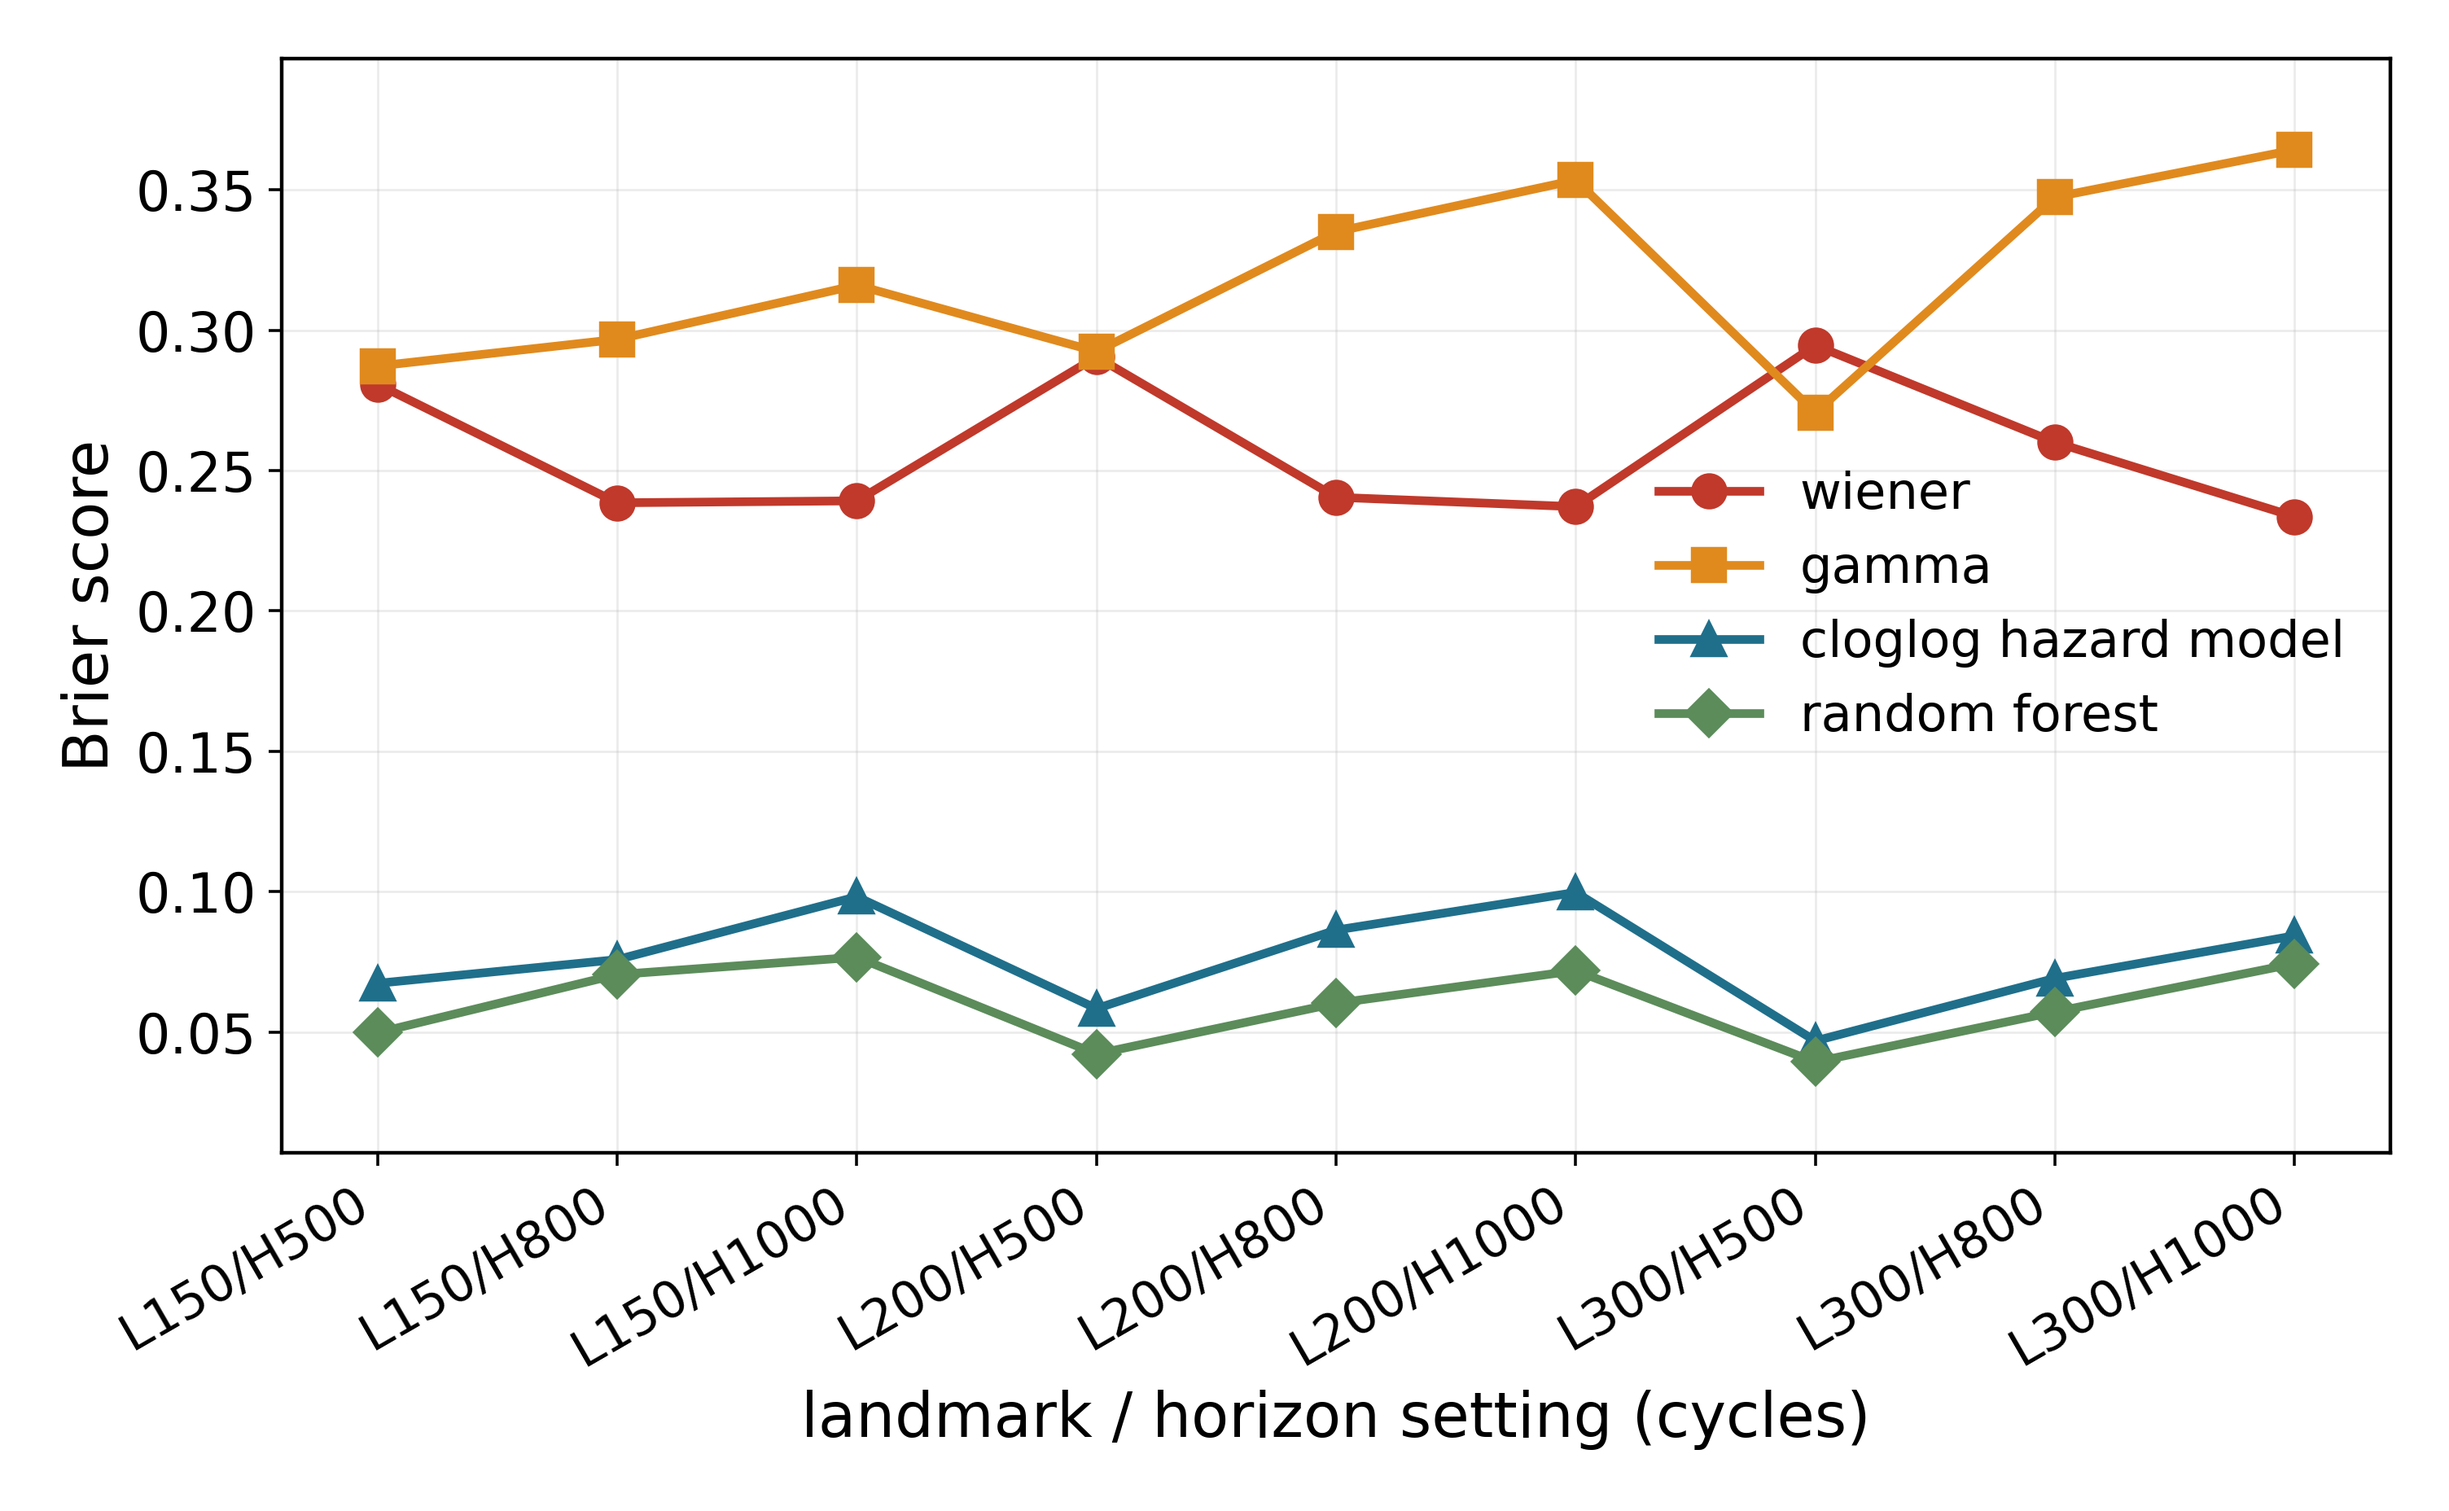
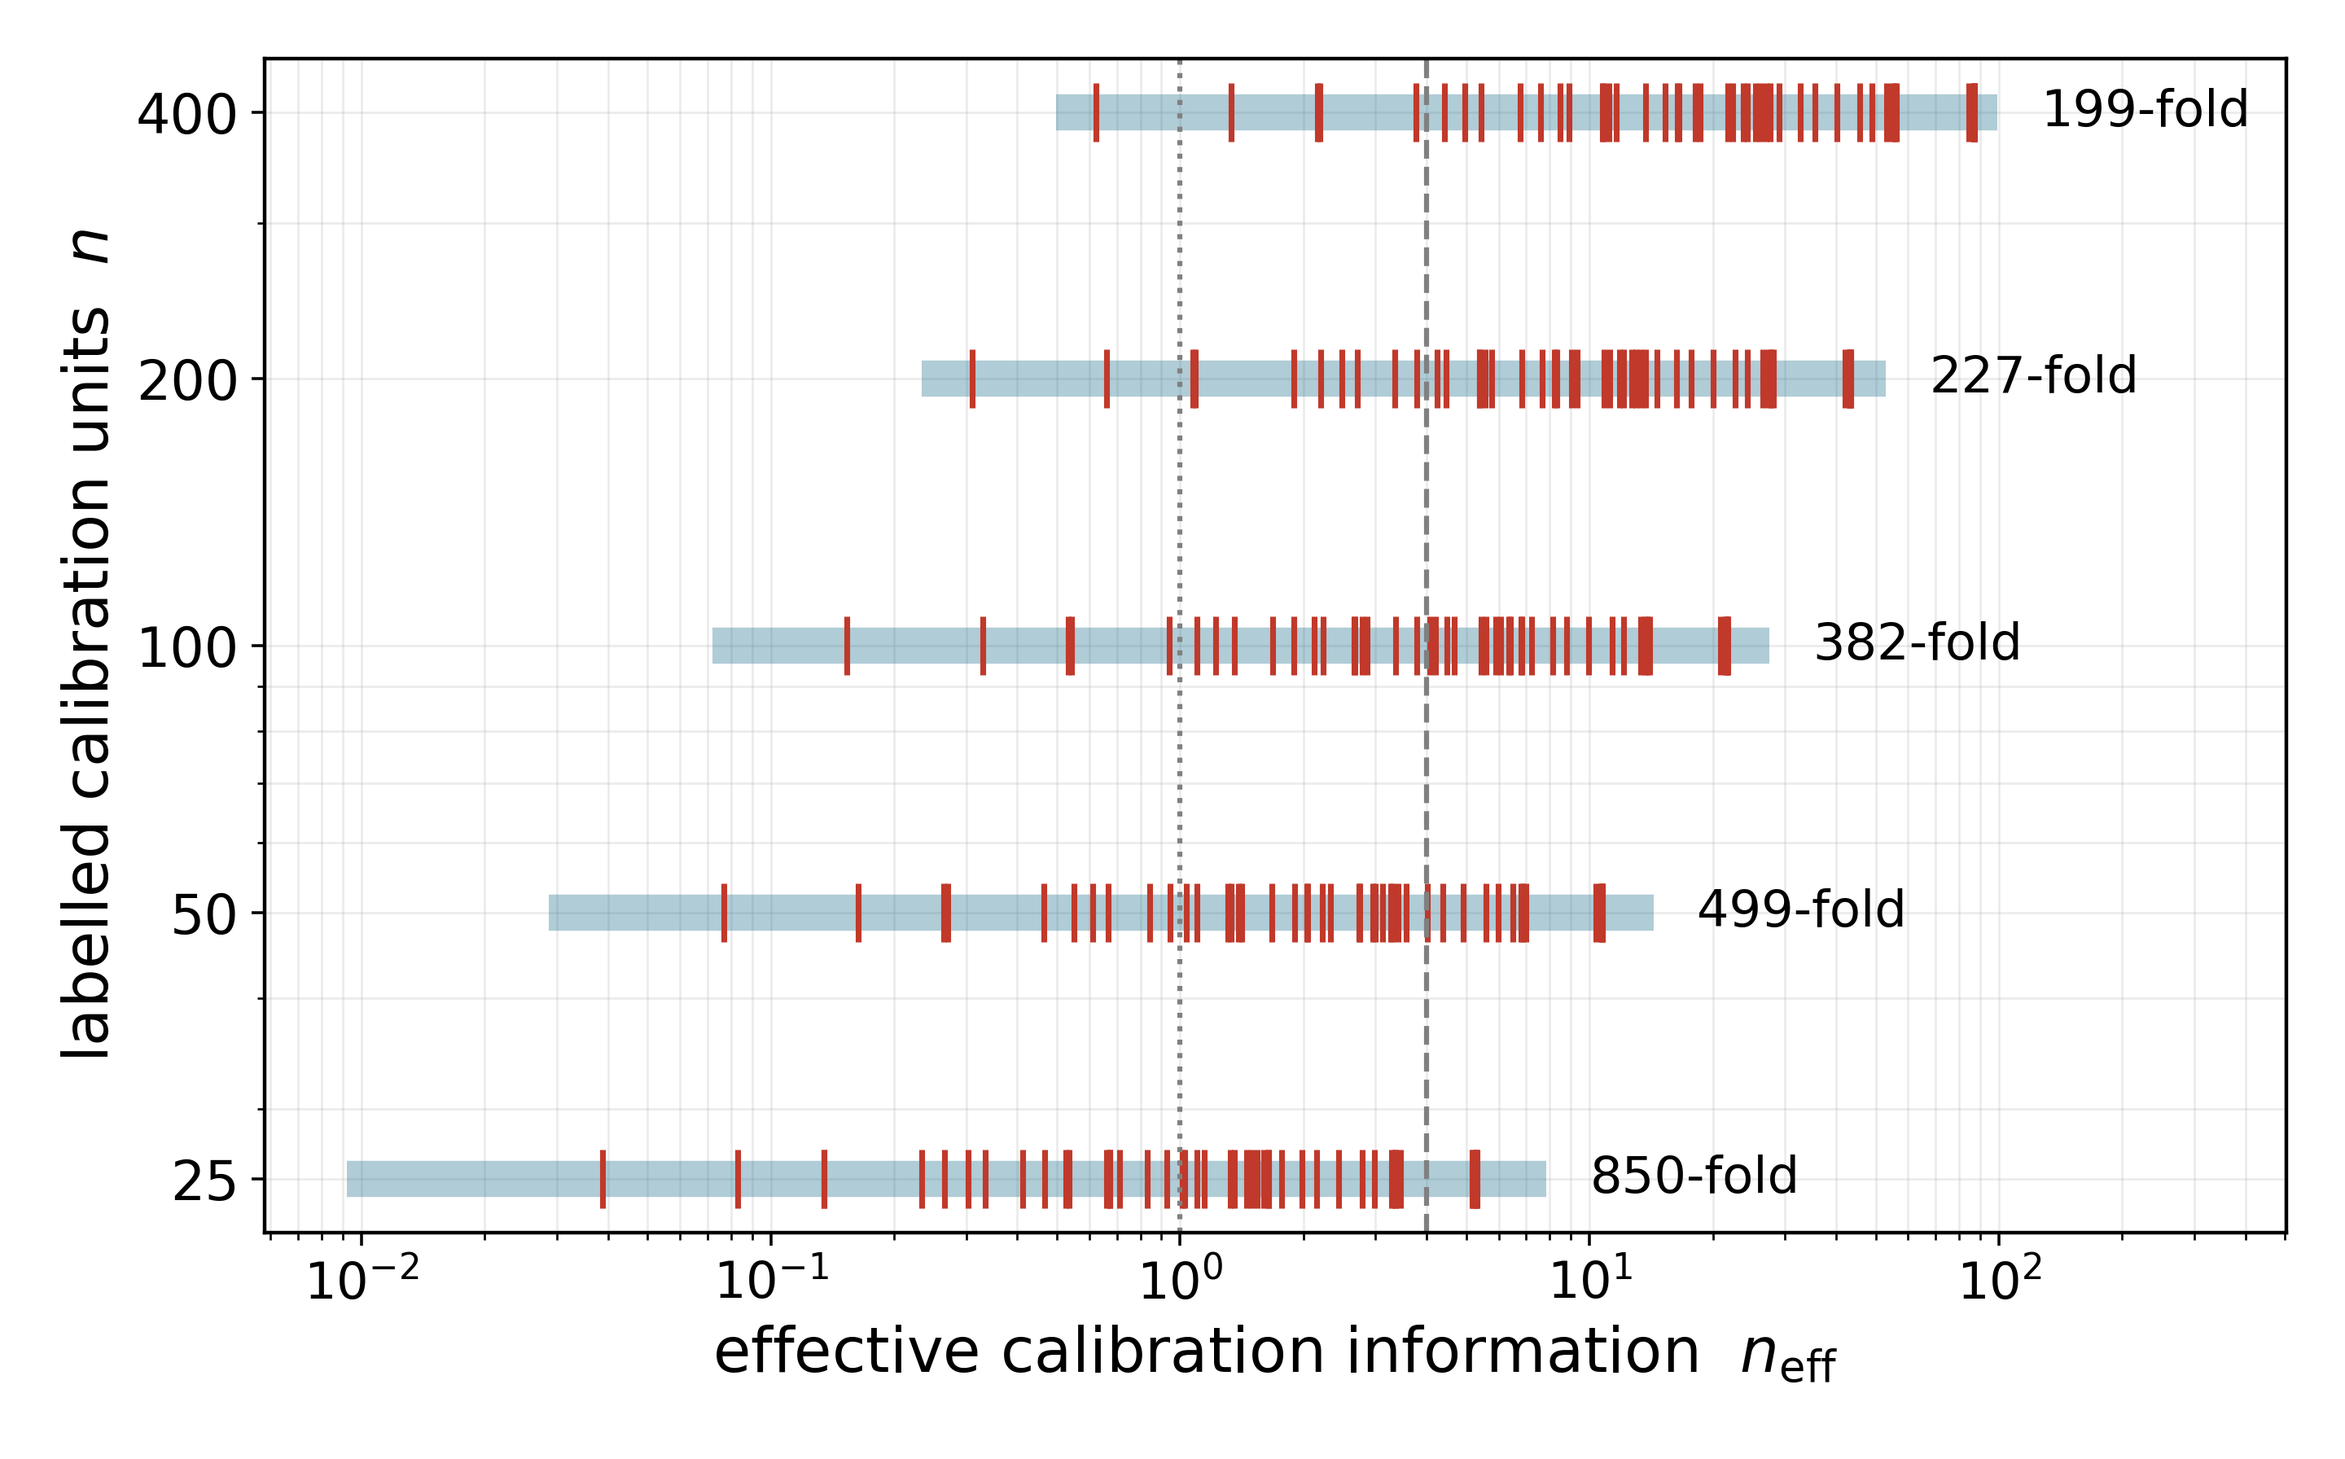
Add Figure 2: link bias and coverage after temporal grouping
Two panels over interval width 0.5, 2, 5 -- mean coefficient bias against a
zero reference, and empirical 95% coverage against the nominal 0.95 -- for the
complementary log-log, logit and probit links.

Values are read from the project's archived Study-A link table rather than
retyped, so the figure is traceable: results/link_simulation_bias_coverage.csv
(18 design cells averaged per point, 1,000 replicates each).

Main-text figures renumbered: 1 schematic, 2 link bias and coverage,
3 n_eff spread, 4 first-passage comparison. The crossover and transport-n_eff
figures are still generated but are no longer main-text figures.

diff --git a/scripts/t_link_figure.py b/scripts/t_link_figure.py
@@ -1,0 +1,90 @@
+"""Figure 2 -- link bias and empirical coverage after temporal grouping.
+
+Two panels over interval width 0.5, 2, 5:
+  (a) mean coefficient bias, reference line at zero
+  (b) empirical 95% coverage, reference line at the nominal 0.95
+
+Values are read from results/link_simulation_bias_coverage.csv, which is the
+project's own archived Study-A link table (table01_link_grouping_simulation),
+18 design cells averaged per point at 1,000 replicates each -- they are not
+retyped into this script.
+"""
+from __future__ import annotations
+
+import os
+from pathlib import Path
+
+for _v in ("OPENBLAS_NUM_THREADS", "OMP_NUM_THREADS", "MKL_NUM_THREADS"):
+    os.environ[_v] = "1"
+
+import matplotlib
+
+matplotlib.use("Agg")
+import matplotlib.pyplot as plt  # noqa: E402
+import pandas as pd  # noqa: E402
+
+plt.rcParams.update({
+    "font.size": 15, "axes.labelsize": 17, "xtick.labelsize": 15,
+    "ytick.labelsize": 15, "legend.fontsize": 15, "axes.linewidth": 1.0,
+})
+
+QREI = Path(__file__).resolve().parent.parent
+d = pd.read_csv(QREI / "results" / "link_simulation_bias_coverage.csv")
+
+LINKS = [("cloglog", "complementary log-log", "#1f6f8b", "o"),
+         ("logit", "logit", "#c0392b", "s"),
+         ("probit", "probit", "#e08a1e", "D")]
+widths = sorted(d.width.unique())
+xs = range(len(widths))
+
+fig, (ax1, ax2) = plt.subplots(1, 2, figsize=(12.0, 5.2))
+
+# ---- (a) bias
+ax1.axhline(0.0, color="0.35", ls="--", lw=1.4, zorder=1)
+for key, lab, col, mk in LINKS:
+    g = d[d.link == key].set_index("width").loc[widths]
+    ax1.plot(xs, g.bias, marker=mk, color=col, lw=2.6, ms=10, label=lab, zorder=3)
+ax1.set_xticks(list(xs))
+ax1.set_xticklabels([("%g" % w) for w in widths])
+ax1.set_xlabel("interval width")
+ax1.set_ylabel("mean coefficient bias")
+ax1.set_xlim(-0.28, len(widths) - 0.72)
+ax1.set_ylim(-0.36, 0.20)
+ax1.text(len(widths) - 0.78, 0.012, "unbiased", fontsize=13.5,
+         color="0.35", ha="right", va="bottom",
+         bbox=dict(facecolor="white", edgecolor="none", alpha=0.85, pad=1.5))
+ax1.grid(alpha=0.22, lw=0.6)
+ax1.set_title("(a)  coefficient bias", fontsize=16, loc="left", pad=10)
+
+# ---- (b) coverage
+ax2.axhline(0.95, color="0.35", ls="--", lw=1.4, zorder=1)
+for key, lab, col, mk in LINKS:
+    g = d[d.link == key].set_index("width").loc[widths]
+    ax2.plot(xs, g.coverage, marker=mk, color=col, lw=2.6, ms=10, label=lab,
+             zorder=3)
+ax2.set_xticks(list(xs))
+ax2.set_xticklabels([("%g" % w) for w in widths])
+ax2.set_xlabel("interval width")
+ax2.set_ylabel("empirical 95% coverage")
+ax2.set_xlim(-0.28, len(widths) - 0.72)
+ax2.set_ylim(-0.05, 1.05)
+ax2.text(len(widths) - 0.78, 0.865, "nominal 0.95", fontsize=13.5,
+         color="0.35", ha="right", va="top",
+         bbox=dict(facecolor="white", edgecolor="none", alpha=0.85, pad=1.5))
+ax2.grid(alpha=0.22, lw=0.6)
+ax2.set_title("(b)  empirical coverage", fontsize=16, loc="left", pad=10)
+
+handles, labels = ax1.get_legend_handles_labels()
+fig.legend(handles, labels, frameon=False, ncol=3, loc="lower center",
+           bbox_to_anchor=(0.5, -0.01), columnspacing=2.4, handletextpad=0.5)
+
+fig.tight_layout(rect=(0, 0.085, 1, 1))
+out = QREI / "figs" / "fig_link_grouping.png"
+fig.savefig(out, dpi=320)
+plt.close(fig)
+print("wrote %s" % out)
+for key, lab, _, _ in LINKS:
+    g = d[d.link == key].set_index("width").loc[widths]
+    print("  %-8s bias %s | coverage %s"
+          % (key, " ".join("%+.4f" % v for v in g.bias),
+             " ".join("%.4f" % v for v in g.coverage)))

diff --git a/README.md b/README.md
@@ -21,17 +21,23 @@ numbers cannot drift apart. **Edit the generator, never the markdown.**
 | `RESULTS.md` | the generated report |
 | `requirements.txt` | exact package versions used |
 
-Figure numbering:
+Figure numbering, main text:
 
-| Manuscript | File in `figs/` | Shows |
+| Figure | File in `figs/` | Shows |
 |---|---|---|
-| Figure 1 | *(not generated here)* | coefficient bias and coverage by link |
-| Figure 2 | `fig_information_spread.png` | `n_eff` against nominal labelled size, recalibration simulation |
-| Figure 3 | `fig_firstpassage.png` | Brier by landmark-horizon setting, first-passage comparison |
-| Figure 4 | `fig_transport_neff.png` | `n_eff` over the transport combinations |
+| Figure 1 | *(schematic, not generated here)* | grouped event-time representation and landmark-conditional fixed-horizon prediction |
+| Figure 2 | `fig_link_grouping.png` | coefficient bias and empirical 95% coverage by link, against interval width |
+| Figure 3 | `fig_information_spread.png` | `n_eff` spans two orders of magnitude at every fixed labelled size |
+| Figure 4 | `fig_firstpassage.png` | Brier by landmark-horizon setting, first-passage against hazard model |
 
-`figs/fig_crossover.png` is generated as well but is not used by the
-manuscript; it is the clearest single view of the S = 2-4 adaptation boundary.
+`figures/fig1.png` ... `fig4.png` are the same images under those numbers.
+
+Two further figures are generated but not used in the main text:
+
+| File | Shows |
+|---|---|
+| `figs/fig_crossover.png` | the S = 2-4 adaptation boundary; candidate supplementary figure |
+| `figs/fig_transport_neff.png` | `n_eff` over the transport combinations, by held-out unit |
 
 ## The four experiments
 
@@ -40,15 +46,16 @@ manuscript; it is the clearest single view of the S = 2-4 adaptation boundary.
 | `calib.py` | shared | penalised complementary log-log recalibration, `n_eff`, CV-with-one-standard-error penalty selection, empirical-Bayes penalty, and the retired staged rule kept only as a comparator |
 | `verify_calib.py` | shared | self-test: unpenalised fit against a `statsmodels` cloglog GLM, penalised fit against an independent optimiser, `n_eff` against the GLM slope standard error |
 | `t1_neff_transport.py` | 1 | replays the published transport splits and records the calibration information actually available in each |
-| `t1_figure.py` | 1 | Figure 4 |
+| `t1_figure.py` | 1 | `fig_transport_neff.png` |
+| `t_link_figure.py` | link study | Figure 2, from the archived Study-A link table |
 | `t2_eta_reservoir.py` | 2 | derives the target `eta` law from the project's own data-generating process |
 | `t2_recal_boundary.py` | 2 | the 225-cell, five-arm recalibration-boundary study |
-| `t2_analyse.py` | 2 | items 2a-2e, Figures 2 and 3 of the report |
+| `t2_analyse.py` | 2 | items 2a-2e, Figure 3 and `fig_crossover.png` |
 | `t2_verify.py` | 2 | seed-stability re-run on a stratified subset |
 | `t3_link_comparison.py` | 3 | cloglog / logit / probit, coefficient and prediction arms |
 | `firstpassage.py` | 4 | Wiener and gamma first-passage models, with a self-test |
 | `t4_first_passage.py` | 4 | the like-for-like comparison against the hazard model |
-| `t4_analyse.py` | 4 | Table 4 and Figure 3 of the report |
+| `t4_analyse.py` | 4 | Table 4 and Figure 4 |
 | `build_results.py` | all | assembles `RESULTS.md` |
 
 ## Data
